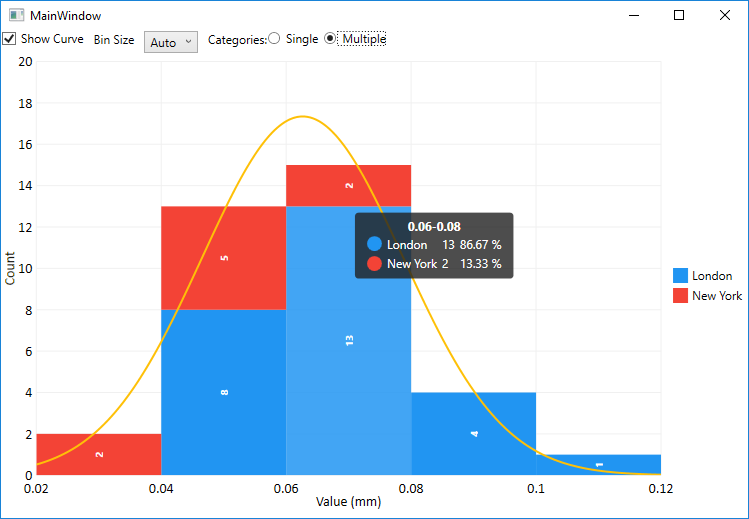
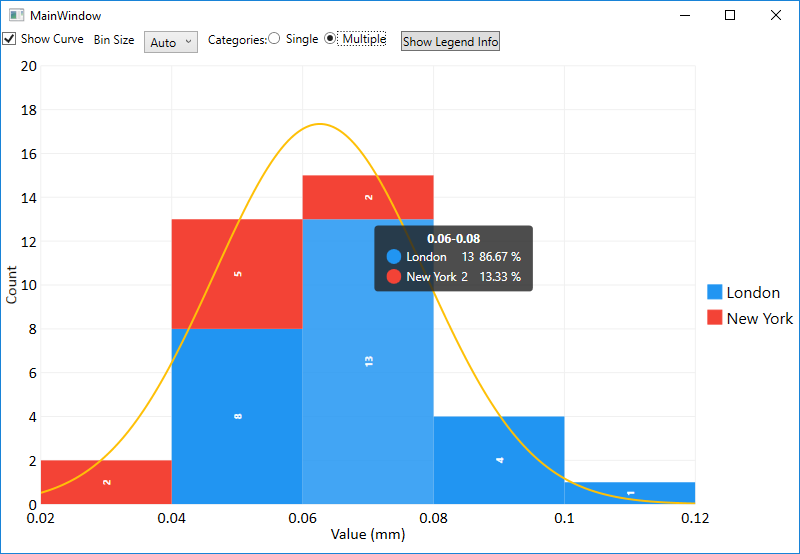
add GetLegendInfo()

diff --git a/SimpleHistogram/MainWindow.xaml b/SimpleHistogram/MainWindow.xaml
@@ -30,8 +30,9 @@
             <TextBlock Margin="10,0,0,5" Text="Categories:" VerticalAlignment="Top"/>
             <RadioButton GroupName="dataType" x:Name="singleCategory" Checked="singleCategory_Checked" Unchecked="singleCategory_Checked"  VerticalAlignment="Top">Single</RadioButton>
             <RadioButton GroupName="dataType" x:Name="multipleCategory" Margin="5,0" VerticalAlignment="Top">Multiple</RadioButton>
+            <Button Margin="10,0,0,5" Content="Show Legend Info" Click="ShowLegendButton_Click"/>
         </StackPanel>
-        <hist:Histogram Grid.Row="1" ShowCurve="{Binding ElementName=showCurve, Path=IsChecked}"
+        <hist:Histogram x:Name="histogram" Grid.Row="1" ShowCurve="{Binding ElementName=showCurve, Path=IsChecked}"
             YLabel="Count" XLabel="Value (mm)" BinSize="{Binding ElementName=binSize, Path=SelectedValue, Converter={StaticResource StrToDoubleConv}}"
             ItemsSource="{Binding ElementName=control, Path=Items}" 
             BarClicked="Histogram_BarClicked"/>

diff --git a/WpfSimpleHistogram/CustomLegend.xaml b/WpfSimpleHistogram/CustomLegend.xaml
@@ -5,7 +5,7 @@
              xmlns:d="http://schemas.microsoft.com/expression/blend/2008" 
              xmlns:lvc="clr-namespace:LiveCharts.Wpf;assembly=LiveCharts.Wpf"
              mc:Ignorable="d" 
-             d:DesignHeight="300" d:DesignWidth="300">
+             d:DesignHeight="300" d:DesignWidth="300" Foreground="Black" FontSize="16">
     <ItemsControl ItemsSource="{Binding Series}" Grid.IsSharedSizeScope="True">
         <ItemsControl.ItemTemplate>
             <DataTemplate DataType="{x:Type lvc:SeriesViewModel}">

diff --git a/WpfSimpleHistogram/Histogram.xaml b/WpfSimpleHistogram/Histogram.xaml
@@ -10,7 +10,7 @@
     <UserControl.Resources>
         <Style TargetType="lvc:Axis">
             <Setter Property="Foreground" Value="Black"/>
-            <Setter Property="FontSize" Value="14"/>
+            <Setter Property="FontSize" Value="16"/>
         </Style>
         <lvc:Separator x:Key="cvSeparator"/>
     </UserControl.Resources>

diff --git a/SimpleHistogram/MainWindow.xaml.cs b/SimpleHistogram/MainWindow.xaml.cs
@@ -101,6 +101,22 @@ namespace SimpleHistogram
             MessageBox.Show("This bar holds: Item Id " + items.Select(i => ((Item)i).ItemId.ToString()).Aggregate((a, b) => { return a + ", " + b; }), "Bar clicked");
         }
 
+        private void ShowLegendButton_Click(object sender, RoutedEventArgs e)
+        {
+            var items = histogram.GetLegendInfo();
+            var st1 = new StackPanel() { Orientation = Orientation.Vertical };
+
+            foreach (var item in items)
+            {
+                var st2 = new StackPanel() { Orientation = Orientation.Horizontal, Margin = new Thickness(5, 0, 5, 0) };
+                st2.Children.Add(new Rectangle() { Fill = item.Item2, Width = 20, Height = 20 });
+                st2.Children.Add(new TextBlock() { Text = item.Item1, Margin = new Thickness(5, 0, 5, 0) });
+                st1.Children.Add(st2);
+            }
+            var win = new Window() { Width = 100, Height = 100, Content = st1, Title = "Legend Information", WindowStartupLocation = System.Windows.WindowStartupLocation.CenterOwner };
+            win.ShowDialog();
+        }
+
         #region INotifyPropertyChanged
         public event PropertyChangedEventHandler PropertyChanged;
         private void RaisePropertyChanged(string propertyName)
@@ -113,6 +129,7 @@ namespace SimpleHistogram
             }
         }
         #endregion
+
     }
 
     public class Item : IHistogramItem

diff --git a/WpfSimpleHistogram/Model/HistogramViewModel.cs b/WpfSimpleHistogram/Model/HistogramViewModel.cs
@@ -312,6 +312,18 @@ namespace WpfSimpleHistogram.Model
                 _binItems.Select(b => new Tuple<Decimal, Decimal, int>(b.Left, b.Right, b.Items.Count())).ToList();
         }
 
+        public List<Tuple<string, Brush>> GetLegendInfo()
+        {
+            var ret = new List<Tuple<string, Brush>>();
+            foreach (var s in SeriesCollection.Where(s => s.GetType() != typeof(LineSeries)))
+            {
+                var series = s as Series;
+                ret.Add(new Tuple<string, Brush>(series.Title, series.Fill));
+            }
+
+            return ret;
+        }
+
         #region INotifyPropertyChanged
         public event PropertyChangedEventHandler PropertyChanged;
         private void RaisePropertyChanged(string propertyName)

diff --git a/WpfSimpleHistogram/Histogram.xaml.cs b/WpfSimpleHistogram/Histogram.xaml.cs
@@ -5,6 +5,7 @@ using System.Windows.Controls;
 using WpfSimpleHistogram.Interface;
 using WpfSimpleHistogram.Model;
 using System;
+using System.Windows.Media;
 
 namespace WpfSimpleHistogram
 {
@@ -126,6 +127,11 @@ namespace WpfSimpleHistogram
         public List<Tuple<Decimal, Decimal, int>> GetStatistic()
         {
             return (this.DataContext as HistogramViewModel).GetStatistic();
+        }
+
+        public List<Tuple<string, Brush>> GetLegendInfo()
+        {
+            return (this.DataContext as HistogramViewModel).GetLegendInfo();
         }
     }
 }
